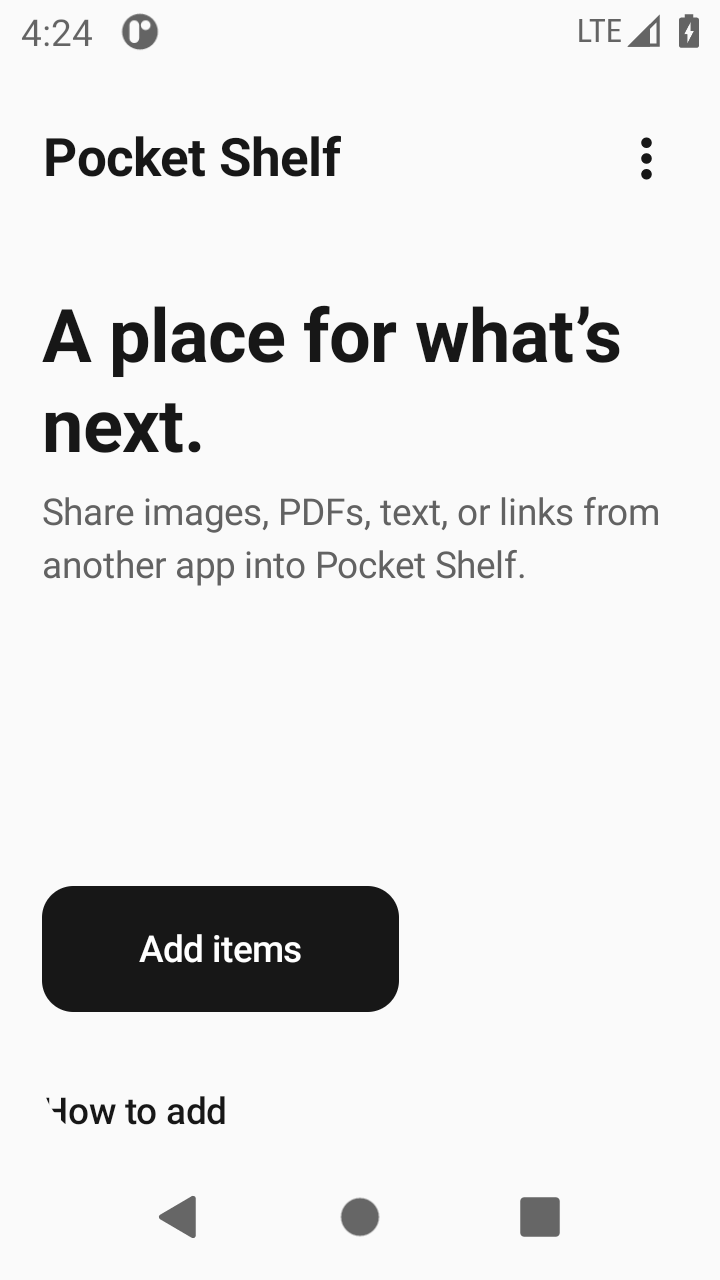
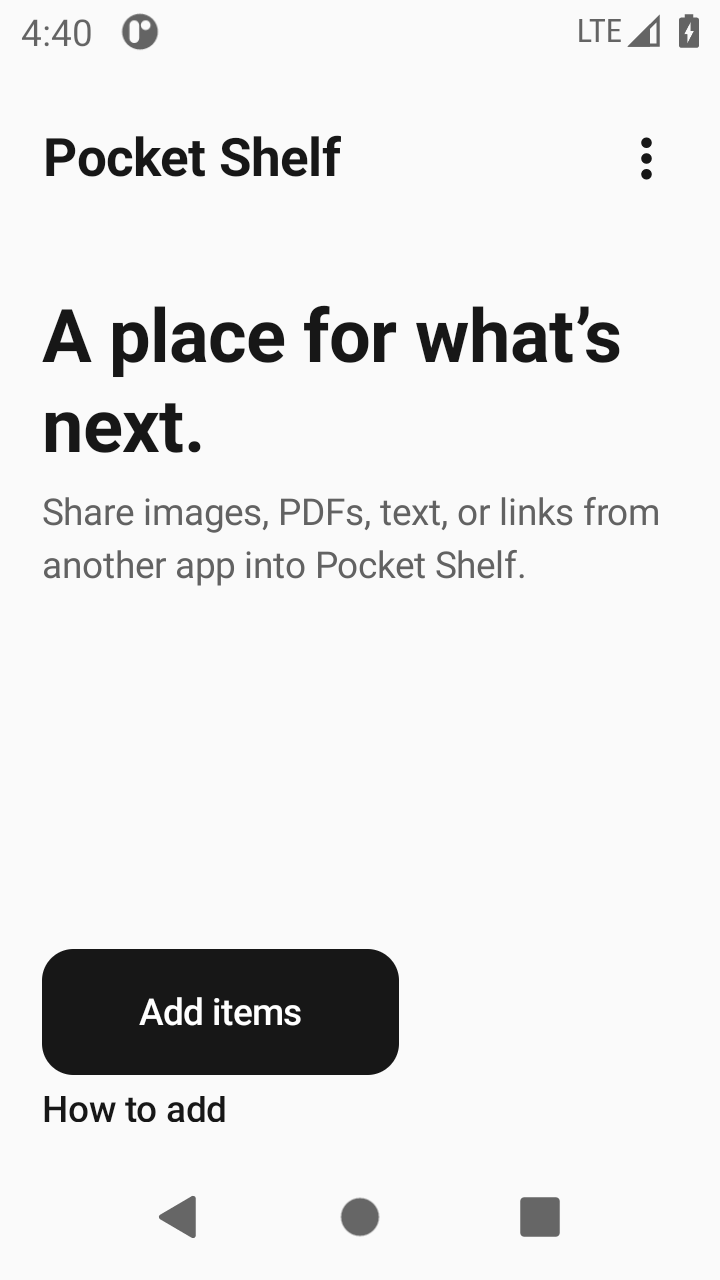
Pack empty dock: 8 dp between Add items and How to add.
Keep How to add on the glyph line so Add items is not left floating
above a 48 dp well. PNG: Add→How ≈ 8 dp, How→nav ≈ 28 dp.

Changed region(s): [[0.0611, 0.7812, 0.5806, 0.875], [0.0611, 0.6875, 0.5806, 0.75], [0.0611, 0.0, 0.1222, 0.0312]]

diff --git a/app/src/main/java/com/shobhankarthish/pocket/ui/shelf/ShelfScreen.kt b/app/src/main/java/com/shobhankarthish/pocket/ui/shelf/ShelfScreen.kt
@@ -24,11 +24,14 @@ import androidx.compose.foundation.layout.fillMaxSize
 import androidx.compose.foundation.layout.fillMaxWidth
 import androidx.compose.foundation.layout.height
 import androidx.compose.foundation.layout.heightIn
+import androidx.compose.foundation.layout.offset
 import androidx.compose.foundation.layout.padding
+import androidx.compose.foundation.layout.requiredSizeIn
 import androidx.compose.foundation.layout.size
 import androidx.compose.foundation.layout.navigationBarsPadding
 import androidx.compose.foundation.layout.statusBarsPadding
 import androidx.compose.foundation.layout.width
+import androidx.compose.foundation.layout.wrapContentHeight
 import androidx.compose.foundation.lazy.LazyColumn
 import androidx.compose.foundation.lazy.itemsIndexed
 import androidx.compose.foundation.shape.CircleShape
@@ -67,6 +70,7 @@ import androidx.compose.runtime.setValue
 import androidx.compose.ui.Alignment
 import androidx.compose.ui.Modifier
 import androidx.compose.ui.draw.clip
+import androidx.compose.ui.draw.clipToBounds
 import androidx.compose.ui.graphics.Color
 import androidx.compose.ui.input.pointer.pointerInput
 import androidx.compose.ui.platform.LocalContext
@@ -986,20 +990,31 @@ private fun EmptyShelfDock(
                 fontWeight = FontWeight.Medium,
             )
         }
-        TextButton(
-            onClick = onHowToAdd,
-            modifier = Modifier.height(Astra.HowToAddMinDp.dp),
-            contentPadding = PaddingValues(0.dp),
+        Spacer(Modifier.height(Astra.EmptyAddHowGapDp.dp))
+        // Glyph line only (~10 dp) so Add sits 8 dp above the copy. The 48 dp
+        // tap target overflows down into the 28 dp How→nav gap.
+        Box(
+            modifier = Modifier
+                .height(10.dp)
+                .clipToBounds(),
+            contentAlignment = Alignment.CenterStart,
         ) {
+            Text(
+                text = stringResource(R.string.how_to_add),
+                color = MaterialTheme.colorScheme.onBackground,
+                style = MaterialTheme.typography.labelLarge,
+                maxLines = 1,
+                modifier = Modifier.wrapContentHeight(unbounded = true),
+            )
             Box(
-                modifier = Modifier.fillMaxSize(),
-                contentAlignment = Alignment.BottomStart,
-            ) {
-                Text(
-                    text = stringResource(R.string.how_to_add),
-                    color = MaterialTheme.colorScheme.onBackground,
-                )
-            }
+                modifier = Modifier
+                    .matchParentSize()
+                    .requiredSizeIn(
+                        minWidth = Astra.HowToAddMinDp.dp,
+                        minHeight = Astra.HowToAddMinDp.dp,
+                    )
+                    .clickable(role = Role.Button, onClick = onHowToAdd),
+            )
         }
     }
 }

diff --git a/app/src/main/java/com/shobhankarthish/pocket/ui/theme/Astra.kt b/app/src/main/java/com/shobhankarthish/pocket/ui/theme/Astra.kt
@@ -7,9 +7,11 @@ object Astra {
     const val HeaderMinDp = 72
     const val EmptyAddWidthDp = 136
     const val EmptyAddHeightDp = 48
+    /** PNG How-to-add glyphs → 3-button nav icon top. */
     const val EmptyDockAboveSafeDp = 28
-    /** 3-button icons sit below the 48 dp nav inset top; PNG gap is to the icons. */
-    const val EmptyNavIconInsetDp = 22
+    const val EmptyAddHowGapDp = 8
+    /** Icons sit this far below the 48 dp nav inset top (PNG, 3-button nav). */
+    const val EmptyNavIconInsetDp = 16
     const val RadiusDp = 12
     const val HowToAddMinDp = 48
     const val SelectionOutlineDp = 2

diff --git a/app/src/test/java/com/shobhankarthish/pocket/ui/theme/AstraTest.kt b/app/src/test/java/com/shobhankarthish/pocket/ui/theme/AstraTest.kt
@@ -12,7 +12,8 @@ class AstraTest {
         assertEquals(136, Astra.EmptyAddWidthDp)
         assertEquals(48, Astra.EmptyAddHeightDp)
         assertEquals(28, Astra.EmptyDockAboveSafeDp)
-        assertEquals(22, Astra.EmptyNavIconInsetDp)
+        assertEquals(8, Astra.EmptyAddHowGapDp)
+        assertEquals(16, Astra.EmptyNavIconInsetDp)
         assertEquals(12, Astra.RadiusDp)
         assertEquals(48, Astra.HowToAddMinDp)
         assertEquals(2, Astra.SelectionOutlineDp)

diff --git a/docs/demo/CAPTURE.md b/docs/demo/CAPTURE.md
@@ -49,7 +49,7 @@ How to add was already dismissed. Populated / selection / arrange / detail / mix
 
 Header browse: title 20/28, count inside the min-72 dp bar, text **Add**. Empty docks **Add items** 136×48 r12 + **How to add** ~28 dp above the safe inset, not under the copy. Resting rows are unboxed with bare glyph slots. Selected rows: tonal fill + 2 dp r12 outline + **24 dp circle** check. Arrange keeps Move up / Move down with readable titles. Add sheet: **Add items** / **Choose files** / **Add text**. Mixed share: Material sheet headed **Share selected items**. Settings: Appearance System/Light/Dark, Haptics, Storage + Clear shelf, Privacy. Motion unchanged (BRIEF table only).
 
-Empty stills were recaptured after docking **Add items** + **How to add** ~28 dp above the visible 3-button nav icons (PNG-measured at 420 dpi). Shelf was already empty. Re-seed is not in git.
+Empty stills were recaptured after packing the empty dock as one block: **Add items** 136×48, **8 dp**, **How to add**, then ~28 dp to the visible 3-button nav icons (PNG-measured at 420 dpi). Shelf was already empty. Re-seed is not in git.
 
 ## Gaps
 
